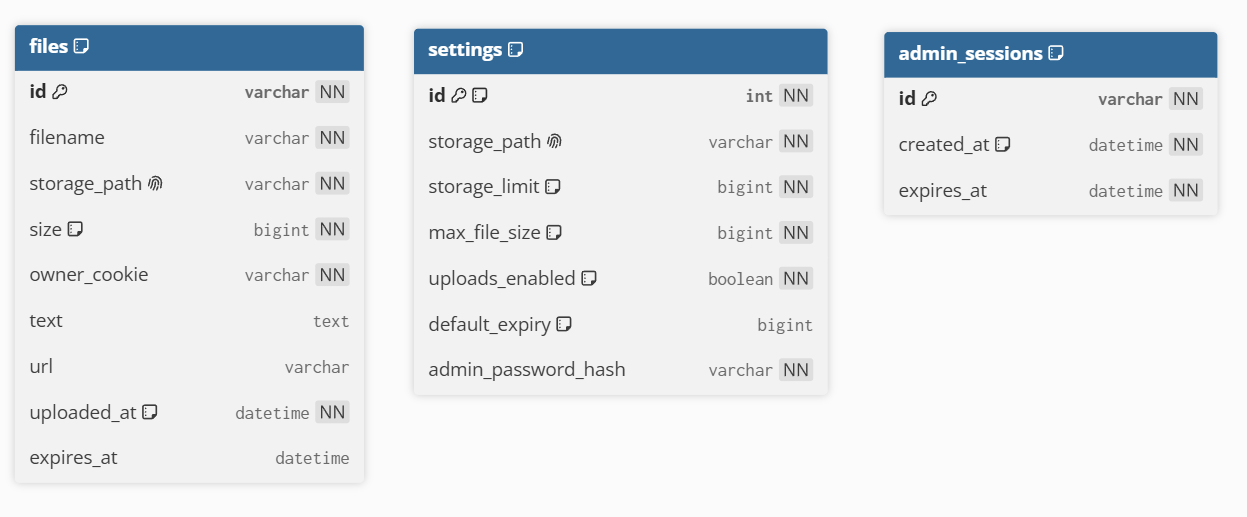
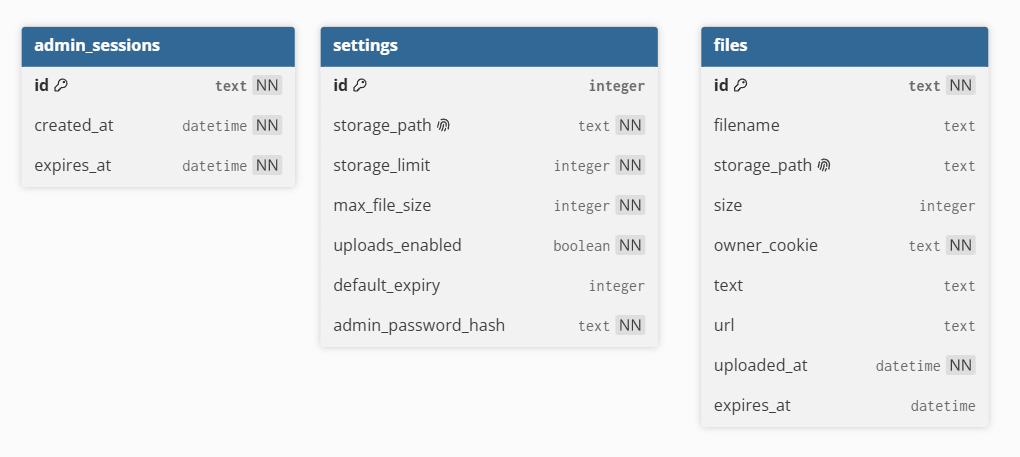
.

diff --git a/README.md b/README.md
@@ -11,27 +11,66 @@
     liels
 * Ievads garāks.
 * Diagrammu apraksts
+* 
 
 # LanShare
 
-## Ievads JĀUZRAKSTA VAIRĀK UN VAIRĀK YAPPPP
+## Ievads
 
 ### Aprakstītā situācija pirms produkta izveides
 
-Lai pārsūtītu failus starp telefonu, datoru un citām ierīcēm, parasti tiek izmantots vads, mākoņpakalpojums vai ziņapmaiņas lietotne. Vada izmantošana ne vienmēr ir ērta, savukārt mākoņpakalpojumiem un ziņapmaiņas lietotnēm nepieciešams interneta savienojums un faili tiek pārsūtīti caur ārējiem serveriem.
+[PLACEHOLDER — aptuveni 1–2 rindkopas]
 
-Tas nav ērti, kad ir jāpārsūta lieli faili, kad interneta savienojums nav pieejams vai ir ļoti lēns.
+Aprakstīt, kā cilvēki pašlaik pārsūta failus starp telefonu, datoru un citām ierīcēm:
+- vads;
+- mākoņpakalpojumi;
+- ziņapmaiņas lietotnes;
+- USB zibatmiņa vai citi datu nesēji.
+
+[PLACEHOLDER — 1 rindkopa]
+
+Aprakstīt šo risinājumu trūkumus:
+- nepieciešams vads vai papildu ierīce;
+- mākoņpakalpojumiem nepieciešams internets;
+- faili tiek glabāti ārējos serveros;
+- liela faila pārsūtīšana var būt neērta vai lēna;
+- dažos gadījumos nepieciešams instalēt papildu programmas.
+
+[PLACEHOLDER — 1 rindkopa]
+
+Paskaidrot, kāda problēma rodas, ja ierīces atrodas vienā lokālajā tīklā, bet nav nepieciešams izmantot internetu vai ārēju failu glabātuvi.
+
 
 ### Pamatota produkta nepieciešamība
 
-Failu pārsūtīšana starp vairākām ierīcēm ir bieža darbība. LanShare nodrošina vienkāršāku risinājumu, ļaujot pārsūtīt failus tieši lokālajā tīklā bez ārējiem failu glabāšanas pakalpojumiem.
+[PLACEHOLDER — 1–2 rindkopas]
+
+Paskaidrot, kāpēc nepieciešams vienkāršs risinājums failu pārsūtīšanai starp ierīcēm vienā lokālajā tīklā.
+
+[PLACEHOLDER — 1 rindkopa]
+
+Ievadīt LanShare kā risinājumu un īsi aprakstīt tā galveno darbības principu:
+lietotājs atver LanShare pārlūkprogrammā → augšupielādē failu → saņem koplietošanas saiti → failu var lejupielādēt cita ierīce.
+
 
 ### Pamatota produkta aktualitāte
 
-Cilvēki ikdienā izmanto vairākas elektroniskās ierīces, tāpēc nepieciešamība pārsūtīt informāciju starp tām ir aktuāla.
+[PLACEHOLDER — 1–2 rindkopas]
 
-LanShare ļauj failus pārsūtīt lokālajā tīklā, neizmantojot vadus vai ārējus failu pārsūtīšanas pakalpojumus.
+Aprakstīt, kāpēc problēma ir aktuāla mūsdienās, ņemot vērā to, ka cilvēki izmanto vairākas ierīces:
+- datorus;
+- telefonus;
+- planšetes;
+- citas tīkla ierīces.
 
+[PLACEHOLDER — 1 rindkopa]
+
+Paskaidrot, ka nepieciešamība ātri pārsūtīt failus starp ierīcēm nav saistīta tikai ar vienu konkrētu lietotāju grupu. To var izmantot skolēni, skolotāji, darbinieki un citi lietotāji.
+
+[PLACEHOLDER — noslēdzošā rindkopa]
+
+Īsi apkopot ievadu:
+LanShare nodrošina failu pārsūtīšanu lokālajā tīklā, neizmantojot vadus, internetu vai ārēju failu glabāšanas pakalpojumu, un tādējādi piedāvā vienkāršu risinājumu failu pārsūtīšanai starp ierīcēm.
 ## Uzdevuma formulējums
 
 ### Produkta nosaukums un veids
@@ -149,19 +188,21 @@ Administrators atver `lanshare.local/admin` un ievada administratora paroli.
 
 **Ievades dati:**
 
-* **Administratora parole**            
+* **Administratora parole**
 
 **Apstrāde:**
 
 Serveris pārbauda ievadīto paroli.
 
-Ja parole ir pareiza, tiek izveidota administratora sesija.
+Ja parole ir pareiza, tiek izveidota administratora sesija uz **1 dienu**.
 
 Ja parole nav pareiza, piekļuve administrācijas sadaļai tiek atteikta.
 
+Pēc 1 dienas administratora sesija zaudē derīgumu un administratoram ir jāautentificējas atkārtoti.
+
 **Rezultāts:**
 
-Pēc veiksmīgas autentifikācijas serveris izveido administratora sesiju un saglabā tās identifikatoru atsevišķā administratora cookie. Pēc tam administrators var izmantot administrācijas funkcijas.
+Pēc veiksmīgas autentifikācijas serveris izveido administratora sesiju uz 1 dienu un saglabā tās identifikatoru atsevišķā administratora cookie. Pēc tam administrators var izmantot administrācijas funkcijas, līdz sesijas derīguma termiņš beidzas.
 
 
 ### 4. Failu augšupielāde
@@ -496,14 +537,15 @@ LanShare datubāzē tiek glabāti dati par failiem, sistēmas iestatījumiem un 
 
 | Lauks | Datu tips | Ierobežojumi | Apraksts |
 |---|---|---|---|
-| `id` | TEXT | PRIMARY KEY, NOT NULL | Unikāls ieraksta identifikators. |
+| `id` | TEXT | PRIMARY KEY, NOT NULL | Unikāls datu ieraksta identifikators. |
 | `filename` | TEXT | NULL | Faila nosaukums, ja ierakstam ir pievienots fails. |
 | `storage_path` | TEXT | NULL, UNIQUE | Faila atrašanās vieta serverī, ja ierakstam ir pievienots fails. |
 | `size` | INTEGER | NULL, ≥ 0 | Faila izmērs baitos, ja ierakstam ir pievienots fails. |
-| `owner_cookie` | TEXT | NOT NULL | Pārlūka sīkdatnes identifikators, kas nosaka ieraksta īpašnieku. |
-| `uploaded_at` | DATETIME | NOT NULL | Ieraksta izveides datums un laiks. |
-| `expires_at` | DATETIME | NULL | Datums un laiks, kad ierakstam beidzas derīguma termiņš. |
-
+| `owner_cookie` | TEXT | NOT NULL | Pārlūka sīkdatnes identifikators, kas nosaka datu ieraksta īpašnieku. |
+| `text` | TEXT | NULL | Lietotāja pievienotais teksts. |
+| `url` | TEXT | NULL | Lietotāja pievienotā saite. |
+| `uploaded_at` | DATETIME | NOT NULL | Datu ieraksta izveides datums un laiks. |
+| `expires_at` | DATETIME | NULL | Datums un laiks, kad datu ierakstam beidzas derīguma termiņš. |
 ### `settings`
 
 | Lauks | Datu tips | Ierobežojumi | Apraksts |
